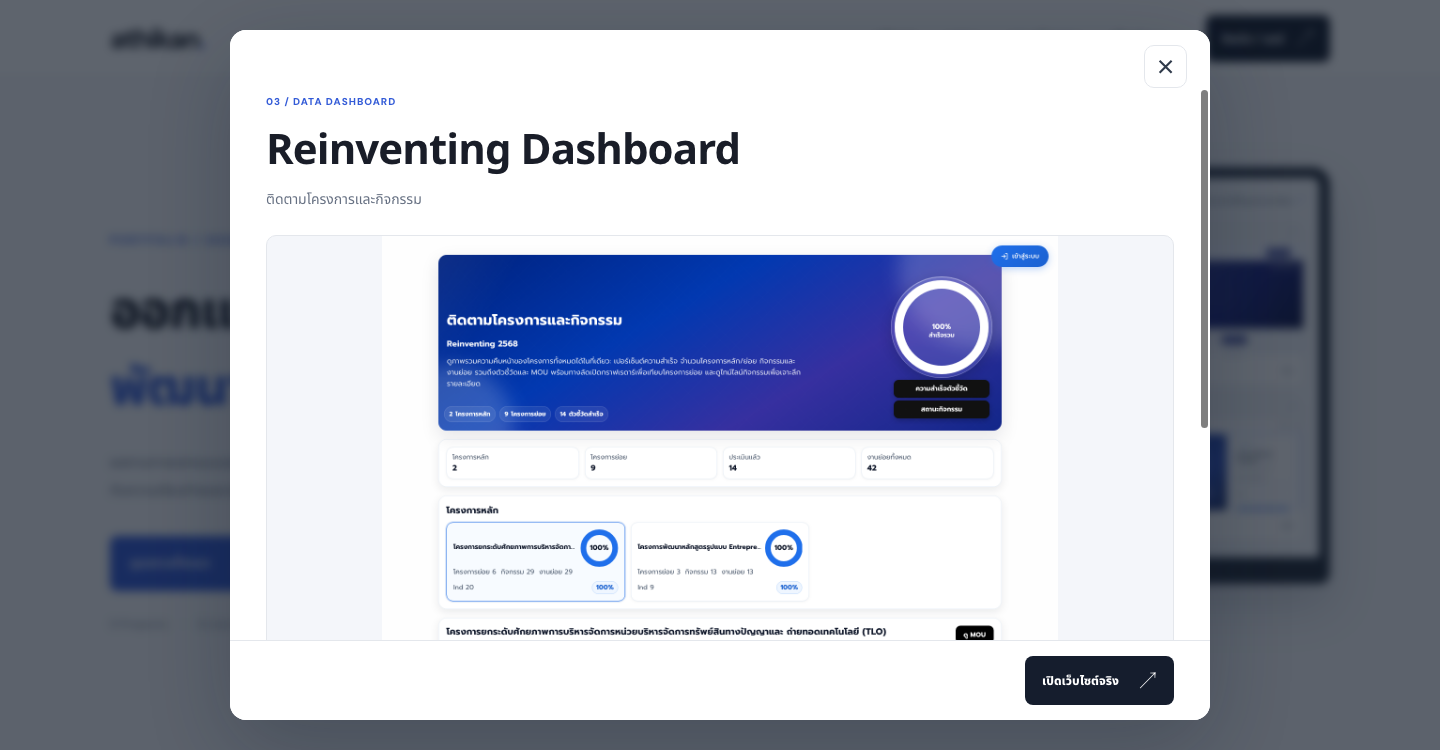
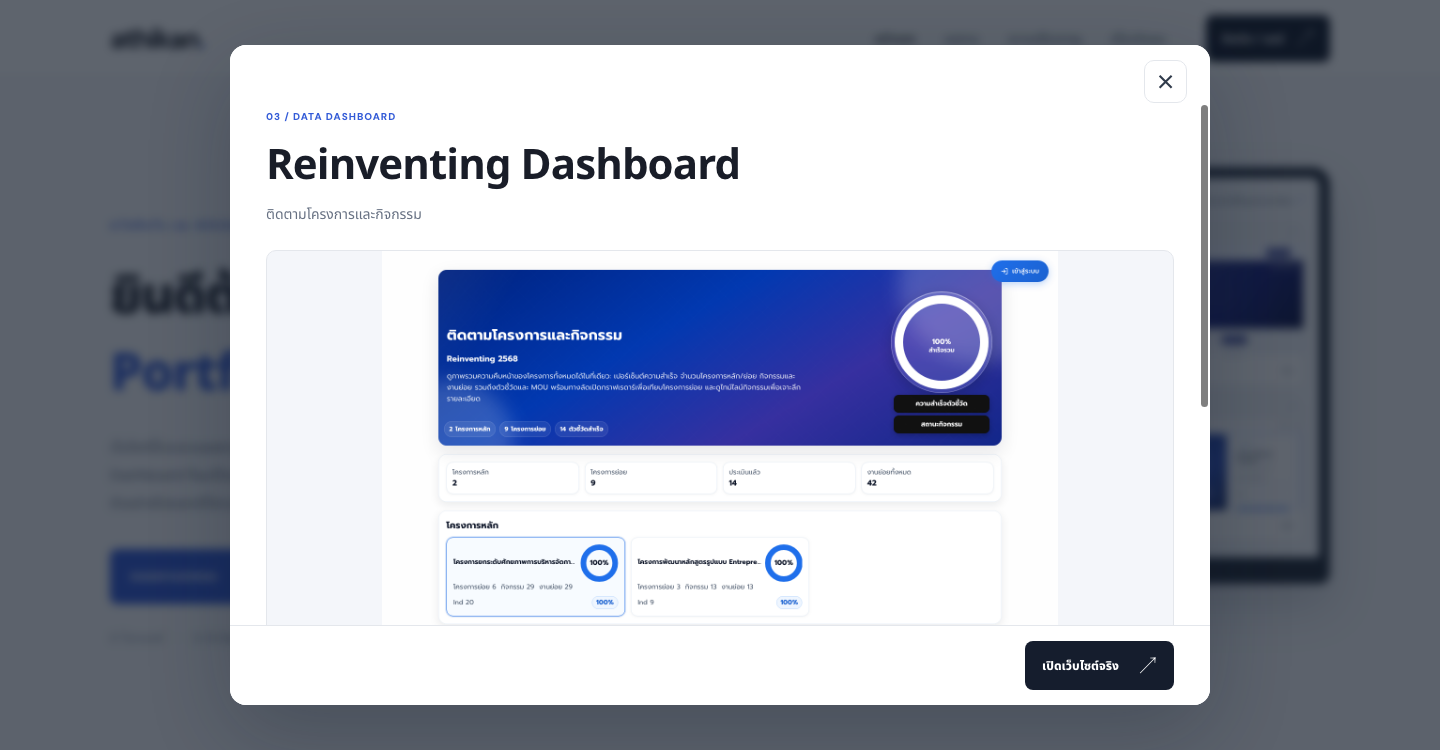
Welcome visitors to portfolio and pin project action footer

diff --git a/index.html b/index.html
@@ -38,14 +38,14 @@
     <section class="hero-section" id="home" aria-labelledby="hero-title">
       <div class="page-wrap hero-grid">
         <div class="hero-copy">
-          <span class="eyebrow">PORTFOLIO / 2026</span>
-          <h1 id="hero-title">ออกแบบให้เรียบง่าย<br><span>พัฒนาให้ใช้ได้จริง</span></h1>
-          <p class="hero-description">ผลงานการออกแบบและพัฒนาเว็บไซต์ เว็บแอปพลิเคชัน และระบบดิจิทัล ที่ให้ความสำคัญกับความเรียบง่ายและประสบการณ์ใช้งาน</p>
+          <span class="eyebrow">สวัสดีครับ ผม Athikan</span>
+          <h1 id="hero-title">ยินดีต้อนรับสู่<br><span>Portfolio ของผม</span></h1>
+          <p class="hero-description">เว็บไซต์นี้รวบรวมผลงานด้านการพัฒนาเว็บไซต์ เว็บแอปพลิเคชัน ระบบจัดการข้อมูล และ Dashboard ที่ผมได้ออกแบบและพัฒนา เพื่อให้คุณเห็นทักษะ แนวคิดการทำงาน และตัวอย่างโปรเจกต์ที่สามารถเปิดดูได้จริง</p>
           <div class="hero-actions">
-            <a class="btn btn-primary" href="#projects">ดูผลงานทั้งหมด <span aria-hidden="true">↗</span></a>
-            <a class="btn btn-outline" href="#about">เกี่ยวกับผม</a>
+            <a class="btn btn-primary" href="#projects">ชมผลงานของผม <span aria-hidden="true">↗</span></a>
+            <a class="btn btn-outline" href="#about">รู้จักผมเพิ่มเติม</a>
           </div>
-          <p class="hero-meta">5 Projects <span aria-hidden="true">·</span> 3 Live Websites</p>
+          <p class="hero-meta">5 โปรเจกต์ <span aria-hidden="true">·</span> 3 เว็บไซต์ที่เปิดดูได้จริง</p>
         </div>
         <div class="hero-visual" aria-label="ตัวอย่างผลงานทั้งหมดในหน้าจอคอมพิวเตอร์ คลิกเพื่อดูรายละเอียด">
           <div class="desktop-showcase">

diff --git a/styles.css b/styles.css
@@ -147,11 +147,12 @@ button,a{font:inherit}button{cursor:pointer}a{color:inherit;text-decoration:none
  padding:0;border:0;border-radius:16px;
  background:#fff;color:var(--ink);
  overflow:hidden;
+ height:min(88dvh,860px);
  z-index:10000;
  box-shadow:0 28px 90px #0c172741;
 }
 .project-modal::backdrop{background:rgba(11,19,34,.66);backdrop-filter:blur(5px)}
-.modal-inner{display:flex;flex-direction:column;min-height:0;max-height:min(92dvh,980px)}
+.modal-inner{display:flex;flex-direction:column;height:100%;min-height:0;max-height:100%}
 .modal-topbar{
  flex:0 0 auto;display:flex;justify-content:flex-end;align-items:center;
  padding:15px 23px 0;background:#fff;z-index:2;
@@ -164,7 +165,7 @@ button,a{font:inherit}button{cursor:pointer}a{color:inherit;text-decoration:none
 }
 .modal-close:hover{background:#f3f6fa;border-color:#cdd6e4}
 .modal-close:focus-visible{outline:3px solid #88a5f8;outline-offset:2px}
-.modal-content{min-height:0;overflow-y:auto;overscroll-behavior:contain;padding:0 36px 30px;scrollbar-gutter:stable}
+.modal-content{flex:1 1 auto;min-height:0;overflow-y:auto;overscroll-behavior:contain;padding:0 36px 30px;scrollbar-gutter:stable}
 .modal-intro{margin:0 0 22px}
 .modal-overline{color:var(--accent);font-size:10px;font-weight:800;letter-spacing:1px}
 .modal-content h2{font-size:clamp(28px,3.7vw,42px);letter-spacing:-.9px;line-height:1.32;margin:12px 0 8px}
@@ -189,7 +190,8 @@ button,a{font:inherit}button{cursor:pointer}a{color:inherit;text-decoration:none
 .modal-footer{
  flex:0 0 auto;display:flex;justify-content:flex-end;align-items:center;
  gap:12px;padding:15px 36px;
- border-top:1px solid var(--line);background:#fff;z-index:2;
+ position:relative;bottom:0;margin-top:auto;
+ border-top:1px solid var(--line);background:#fff;z-index:3;
 }
 .modal-footer[hidden]{display:none}
 .modal-live-link{
@@ -318,8 +320,8 @@ button,a{font:inherit}button{cursor:pointer}a{color:inherit;text-decoration:none
 @media(prefers-reduced-motion:reduce){html{scroll-behavior:auto}*,*:before,*:after{transition:none!important;animation:none!important}}
 
 @media(max-width:680px){
- .project-modal{width:calc(100vw - 16px);max-height:94dvh;border-radius:13px}
- .modal-inner{max-height:94dvh}
+ .project-modal{width:calc(100vw - 16px);height:94dvh;max-height:94dvh;border-radius:13px}
+ .modal-inner{height:100%;max-height:100%}
  .modal-topbar{padding:10px 14px 0}
  .modal-close{width:42px;height:42px}
  .modal-content{padding:0 18px 21px;scrollbar-gutter:auto}

diff --git a/README.md b/README.md
@@ -45,3 +45,7 @@ python3 -m http.server 4173
 ## Project details popup
 
 ปรับ popup ให้มีปุ่มกากบาท (X) เพียงปุ่มเดียวและคงตำแหน่งมุมบนขวา เนื้อหาภายใน scroll ได้โดยไม่เลื่อนปุ่มปิด และย้ายลิงก์เปิดเว็บไซต์จริงให้อยู่แถบด้านขวาล่างที่คงตำแหน่งตลอดการเลื่อน แสดงลิงก์เฉพาะโครงการที่มี URL จริง และแสดงปุ่มนำทางแกลเลอรีเฉพาะตอนที่มีหลายภาพ ตัวอย่างผลทดสอบอยู่ที่ `preview-modal-desktop.png` และ `preview-modal-mobile.png`
+
+## Portfolio introduction and popup layout
+
+หน้าแรกใช้ข้อความต้อนรับผู้เข้าชม Portfolio และสรุปขอบเขตผลงานด้าน Web Development, Web Application, Data Management และ Dashboard เพื่อให้เหมาะกับผู้พิจารณาสมัครงานมากขึ้น ภายในรายละเอียดโปรเจกต์ใช้พื้นที่เลื่อนเฉพาะเนื้อหา แยกปุ่มกากบาทด้านบนและปุ่ม "เปิดเว็บไซต์จริง" ที่ด้านขวาล่างคงที่ไว้เสมอในโปรเจกต์ที่มีลิงก์ โดยรองรับทั้งหน้าจอคอมพิวเตอร์และมือถือ
